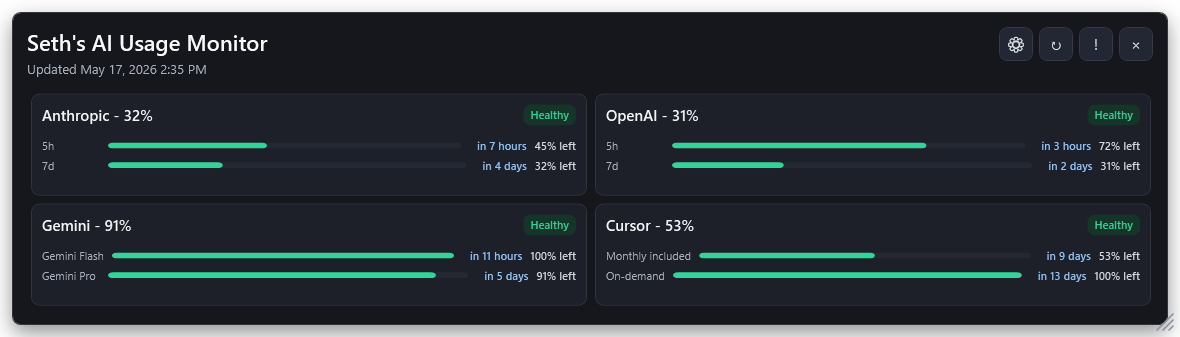
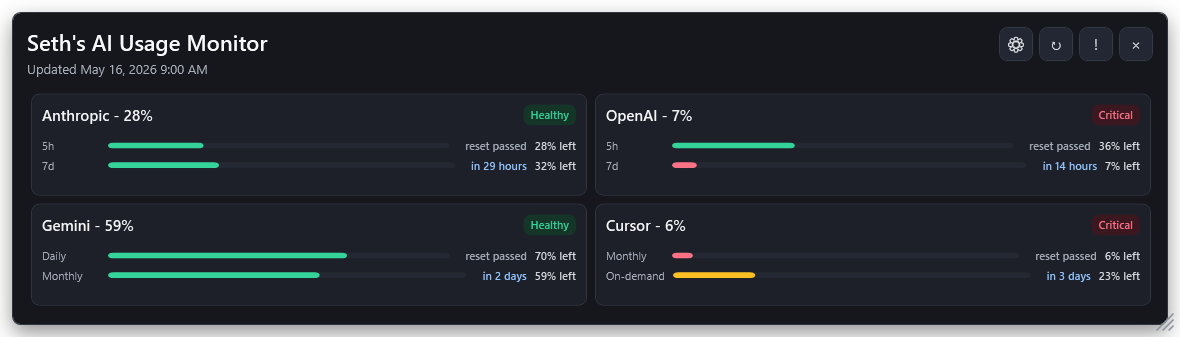
* tweaks

diff --git a/ViewModels/UsageWindowDisplay.cs b/ViewModels/UsageWindowDisplay.cs
@@ -16,9 +16,8 @@ public sealed class UsageWindowDisplay
         UsedPercent = usageWindow.UsedPercent;
         RemainingPercent = usageWindow.RemainingPercent;
         Detail = usageWindow.Detail;
-        UsedPercentText = $"{usageWindow.UsedPercent:0}% used";
         RemainingText = $"{usageWindow.RemainingPercent:0}% left";
-        LimitText = string.IsNullOrWhiteSpace(Detail) ? UsedPercentText : Detail;
+        LimitText = string.IsNullOrWhiteSpace(Detail) ? RemainingText : Detail;
         ResetText = usageWindow.ResetAt is { } resetAt
             ? FormatResetText(resetAt)
             : "Reset time unavailable";
@@ -45,8 +44,6 @@ public sealed class UsageWindowDisplay
     public double UsedPercent { get; }
 
     public double RemainingPercent { get; }
-
-    public string UsedPercentText { get; }
 
     public string RemainingText { get; }
 
